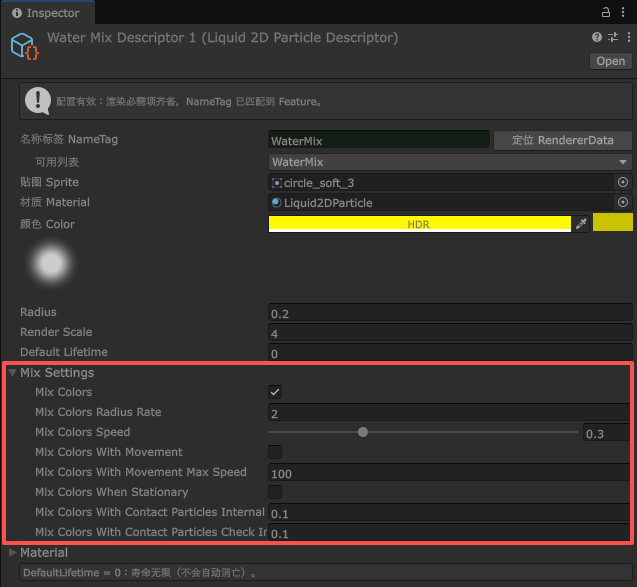
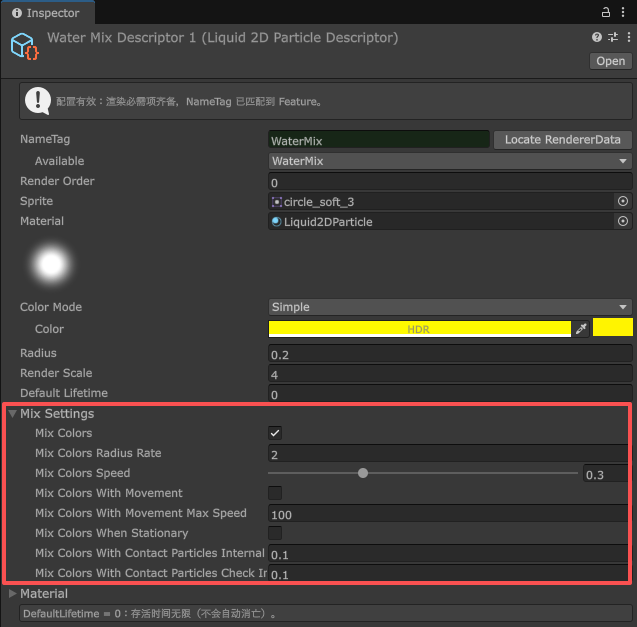
【README】 文档更新。新增  Color Mode 颜色模式（Simple / Gradient）章节。

Changed region(s): [[0.0, 0.0, 1.0, 1.0], [0.4176, 0.7973, 0.4772, 0.8279]]

diff --git a/README_EN.md b/README_EN.md
@@ -1,4 +1,4 @@
-![](Documents/samples_1.gif)
+![](Documents/header.gif)
 
 <p align="center">
   <img alt="GitHub Release" src="https://img.shields.io/github/v/release/blurfeng/unity-water-liquid-2d-simulation?color=blue">
@@ -53,6 +53,7 @@ The core algorithm of the fluid physics solver mainly references [SebLague/Fluid
   - [Sprite](#sprite)
   - [Particle Size and Rendering](#particle-size-and-rendering)
   - [Material (Physics)](#material-physics)
+  - [Color Mode (Simple / Gradient)](#color-mode-simple--gradient)
   - [Mix Colors](#mix-colors)
 - [🧱 Scene Collision and Blocking](#-scene-collision-and-blocking)
   - [Liquid2DCollider](#liquid2dcollider)
@@ -88,6 +89,7 @@ In practice, the particle fusion effect is achieved by stacking and clipping the
 | Rich fluid materials              | Configurable viscosity, surface tension, friction, restitution, gravity scale, buoyancy density, and more, with built-in Water / Lava / Foam / Sand presets. |
 | Scene interaction                 | Custom colliders block fluid, two-way rigidbody coupling (wash-away / buoyant float), force fields (attract / repel / swirl), and dead zones for recycling. |
 | Multi color-space mixing          | Fluids of different colors mix when they meet, with three mixing algorithms: Oklab / RYB / LinearRgb.         |
+| Color mode (fixed / gradient)     | Each particle category can use a fixed color or sample an HDR gradient by speed / density / impact, expressing dynamic colors such as flow, foam, and translucent wave crests. |
 | URP 2D / Render Graph             | Built on URP 2D for rendering, greatly improving performance. Unity 6 uses the new Render Graph framework; Unity 2022.3 does not use Render Graph and instead uses the classic imperative URP pipeline, with the same result.           |
 | GPU Instancing                    | Particles are rendered with GPU Instancing, rendering large numbers of particles in one pass and supporting higher particle counts. |
 | Runtime tweaking via Volume       | Supports modifying the fluid particles' rendering effects at runtime through Volumes.                         |
@@ -170,7 +172,7 @@ Right-click in the `Project` window and choose `Create -> Liquid2D -> Particle D
 You configure the descriptor's parameters to define the appearance and behavior of the fluid particles:
 - `Radius`: The particle's physical radius (world units), which determines particle spacing and the neighbor-search range.
 - `RenderScale`: The render multiplier. The visual size drawn = `Radius × 2 × RenderScale`, usually much larger than the physical radius to achieve a metaball fusion effect.
-- `RenderSettings`: Rendering settings, including the `Sprite`, `Material`, `Color` (HDR supported), and `NameTag`.
+- `RenderSettings`: Rendering settings, including the `Sprite`, `Material`, `Color` (HDR supported), `ColorMode` (fixed color / gradient color, see [Color Mode (Simple / Gradient)](#color-mode-simple--gradient)), and `NameTag`.
 - `Material`: The physics material, defining viscosity, surface tension, friction, restitution, gravity scale, buoyancy density, and more (see [Material (Physics)](#material-physics)).
 - `MixSettings`: Color-mixing settings (see [Mix Colors](#mix-colors)).
 
@@ -216,7 +218,6 @@ The Liquid Feature uses Rendering Layers to distinguish which objects can block 
 > Still, in the demo scenes you'll find that blockers block the fluid particles nicely. This is because the correct Rendering Layer Masks were already configured.  
 > Due to the engine's caching and mechanics, they still work. But in your project, those Rendering Layers don't actually exist.  
 > On the Liquid2DFeature of the demo scene's Liquid2DRenderer2D, the Obstructor Rendering Layer Mask shows as `Unnamed Layer 1`.  
-> ![](Documents/rl_2.png)
 
 > [!IMPORTANT]
 > The Rendering Layers here only affect the **rendering-level occlusion order** (whether the fluid is drawn in front of or behind objects); they **do not actually block the fluid's flow**.  
@@ -328,7 +329,58 @@ Key parameters (for more details, see the Inspector Tooltips):
 The material has several built-in presets — **Water / Lava / Foam / Sand** — which can serve as a starting point for further tweaking: water has low viscosity and low tension; lava has high viscosity, high mass, and high density; foam has high tension, low gravity or even floats; sand has high friction and zero tension.  
 ![](Documents/pm_1.png)
 
+### Color Mode (Simple / Gradient)
+The `Color Mode` on the descriptor's `RenderSettings` decides **where the base color each particle writes into the fluid texture comes from**, with two modes:
+- **Simple (default)**: Uses a single `Color` (HDR supported), with runtime [Mix Colors](#mix-colors) applied on top. This is the original behavior.
+- **Gradient**: Colors each particle by sampling an HDR gradient in real time based on the particle's **physical scalar** (speed / density / impact), used to express dynamic colors such as flow, foam, and translucent wave crests. In this mode `Color` is **not used** and it **does not participate in runtime color mixing** (the color is recomputed each frame from the physical quantity).  
+
+![](Documents/cm_1.png)
+
+> [!NOTE]
+> The color mode is a **per-particle, per-descriptor-category** setting, and forms a separate layer from the Renderer Feature's [Cover Color](#cover-color) / [Opacity](#opacity): this decides the particle's **own** color, while the Feature then applies uniform covering / post-processing over the whole body of fluid.
+
+#### Gradient Source
+In Gradient mode, `Gradient Source` decides which physical scalar `t` (0→1) is used to sample the gradient from its left end to its right end. The 5 sources cover the two major needs of "flow feel" and "foam":
+
+| Source | Meaning of scalar `t` | Typical use |
+| --- | --- | --- |
+| **Speed** | Normalized speed magnitude (`Speed Min~Max`) | The faster the flow, the more the color leans toward the right end of the gradient, expressing flow speed / impact feel |
+| **Density** | Current density deficit (static, only looks at the current density) | The surface **always has a layer** (e.g. the white on the surface of milk foam), interior → left end |
+| **DensityWithImpact** | Density gate × impact (density rise rate) | Foams only where the surface neighborhood is **rapidly compacted** (the white foam of a breaking wave), can persist then fade |
+| **DensityWithSpeed** | Density gate × speed (formerly FoamWithSpeed) | Near the surface, the **faster the motion the more it foams**, can persist then fade |
+| **Impact** | Pure impact (no density gate) | Rapid compaction **anywhere** (including inside the fluid) turns the whole thing white |
+
+Among these, `Density` (static) suits an "always-present surface color"; `DensityWithImpact` / `DensityWithSpeed` / `Impact` are **dynamic foam** — "generate → accumulate then fade by persistence" — able to express the process of "air being entrained then gradually escaping."
+
+#### Main Parameters
+- **`Color Gradient`**: The HDR color gradient, sampled by `t` from left (0) to right (1). The gradient's own **alpha** is used as the distance-field coverage (which determines the fluid's shape). The editor adds the **right-click copy / paste** that native HDR gradients lack.
+- **`Gradient Opacity`**: An **independent opacity curve** (a constant 1 by default, zero cost). Sampled by the same `t` as the color, it only affects the **final rendered opacity** and does not change the fluid's shape (decoupled from the gradient alpha). Useful for opacity that varies dynamically by scalar, such as "translucent wave crests, opaque lower body of water."  
+  ![](Documents/cm_1.gif)
+- **`Speed Min` / `Speed Max`**: The speed normalization bounds for the `Speed` and `DensityWithSpeed` modes (world units/s).
+- **`Foam Start` / `Foam End`**: The density-region gate for the three `Density`-family modes. ⚠ `Foam Start` should sit just **below your interior / water-bottom density ratio** (the water bottom is usually ≈1.0, use 0.95~1.0) to exclude the interior; `Foam End` is below the surface density (usually ≈0.9, use 0.8~0.9). You can first use `Density` mode with a gradient to observe the density distribution and locate these.
+- **`Impact Strength`**: The impact sensitivity for `DensityWithImpact` / `Impact`; the larger it is, the more easily it foams (typically 8~60).
+- **`Impact Rise Min`**: Impact dead zone; subtracts a lower bound on the rise rate to exclude "barely changing" slight-disturbance pseudo-impacts (avoiding pseudo-whitening that looks like a shockwave).
+- **`Foam Persistence`**: Foam persistence (seconds, a time constant). After being generated, it gradually fades over this duration even if it is no longer produced: sea foam ≈0.4~1.2, milk / dishwashing foam ≈3~8, beer head ≈8~20; 0 = not persistent. Used only by the 3 dynamic sources.
+- **`Foam Persistence Curve`**: A curve that remaps persistence by **surfaceness** (a multiplier, a constant 1 by default). X = surfaceness (0 = water bottom / 1 = water surface), Y = the multiplier applied to `Foam Persistence`. Used for "**persistent foam at the surface, fast-dissipating foam at the bottom**" — give a small value at the left end and a large value at the right end.
+- **`Gradient Smoothing`**: Gradient temporal smoothing (independent per fluid, 0.93 by default). Applies a per-frame EMA smoothing to the density and speed used for rendering, eliminating color flicker caused by the SPH's frame-to-frame jitter; the larger it is, the smoother but the slower the response. Does not affect physics.
+
+> [!TIP]
+> All the Gradient parameters above **only affect the visualization of color / opacity and do not change the physics**. When `Gradient Opacity` and `Foam Persistence Curve` are a constant 1 (the default), the entire chain has zero cost and won't slow down existing assets.
+
+#### Examples
+- **Speed**: Changes color with flow speed, reinforcing the flow feel.  
+  ![](Documents/cm_2.gif)
+- **Density**: The surface always has a layer of foam / white edge (e.g. milk foam).  
+  ![](Documents/cm_3.gif)
+- **DensityWithImpact / Impact**: Foams where struck / impacted, fading by persistence once at rest (sea foam).  
+  ![](Documents/cm_4.gif)
+- **DensityWithSpeed**: The faster the motion the more it foams, fading by persistence once at rest (sea foam).  
+  ![](Documents/cm_5.gif)
+
 ### Mix Colors
+> [!NOTE]
+> Runtime color mixing **only takes effect when `Color Mode = Simple`**. In `Gradient` mode the color is recomputed each frame from physical quantities and does not participate in mixing.
+
 By enabling `Mix Colors` in the descriptor's `MixSettings`, you can let fluid particles of different colors mix their colors.  
 Both particles must have `Mix Colors` enabled to mix when they meet and change their own colors.  
 ![](Documents/mc_1.gif)
